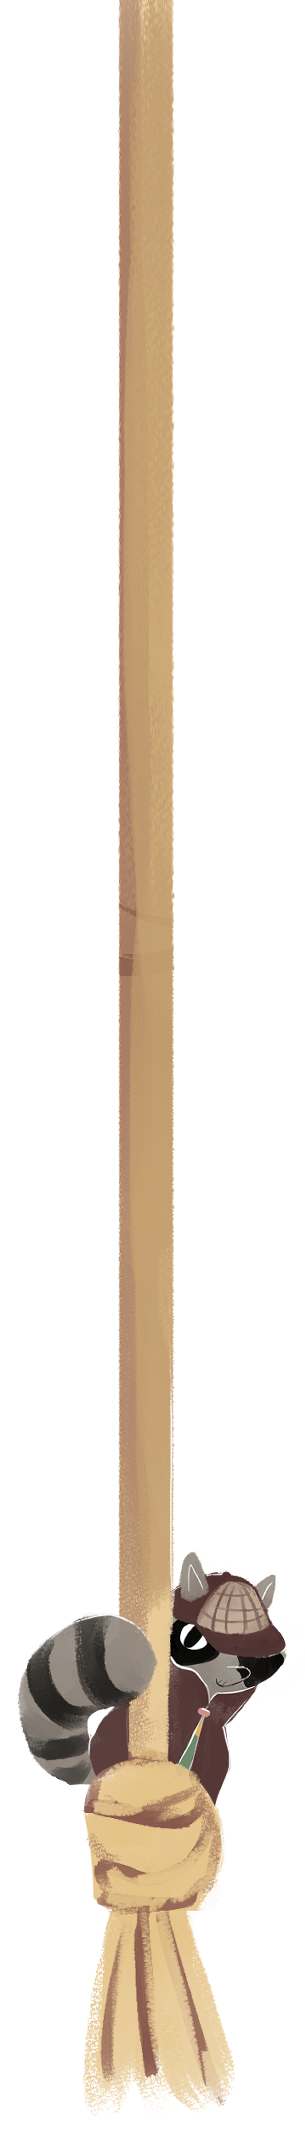
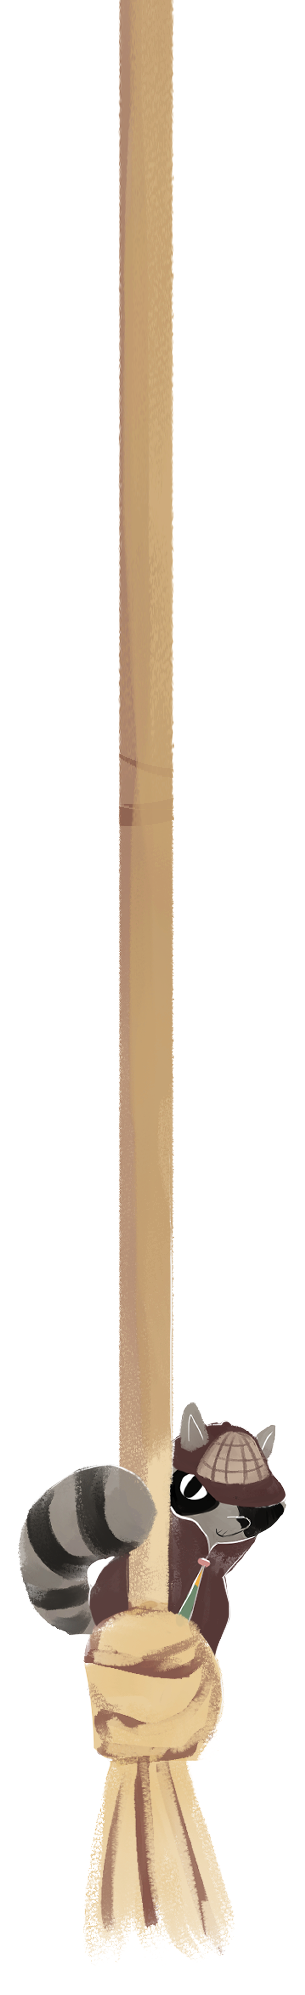
fix rope size

diff --git a/src/pages/curtain/Curtain.css b/src/pages/curtain/Curtain.css
@@ -5,9 +5,9 @@
 }
 .rope{
   position:absolute;
-  height:120svh;
+  height:110svh;
   width:140px;
-  top:-40svh;
+  top:-30svh;
   left: 0.5rem;
 }
 .titleImage{
@@ -32,13 +32,13 @@
 }
 @keyframes ropePull{
   0%{
-    top:-40svh;
+    top:-30svh;
   }
   50%{
-    top:-20svh;
+    top:-10svh;
   }
   100%{
-    top:-40svh;
+    top:-30svh;
   }
 }
 @keyframes curtainUp{
